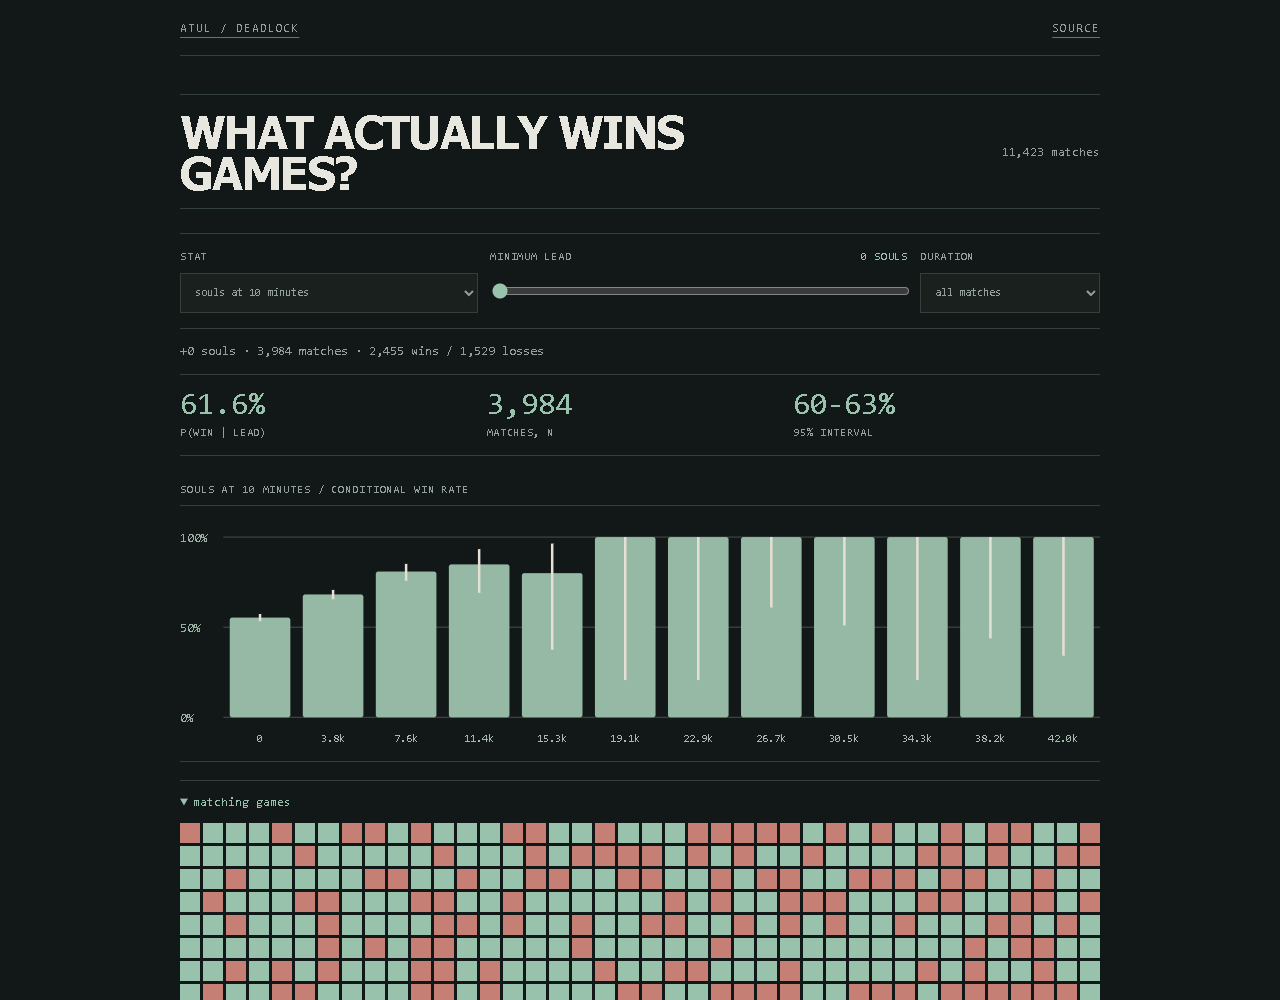
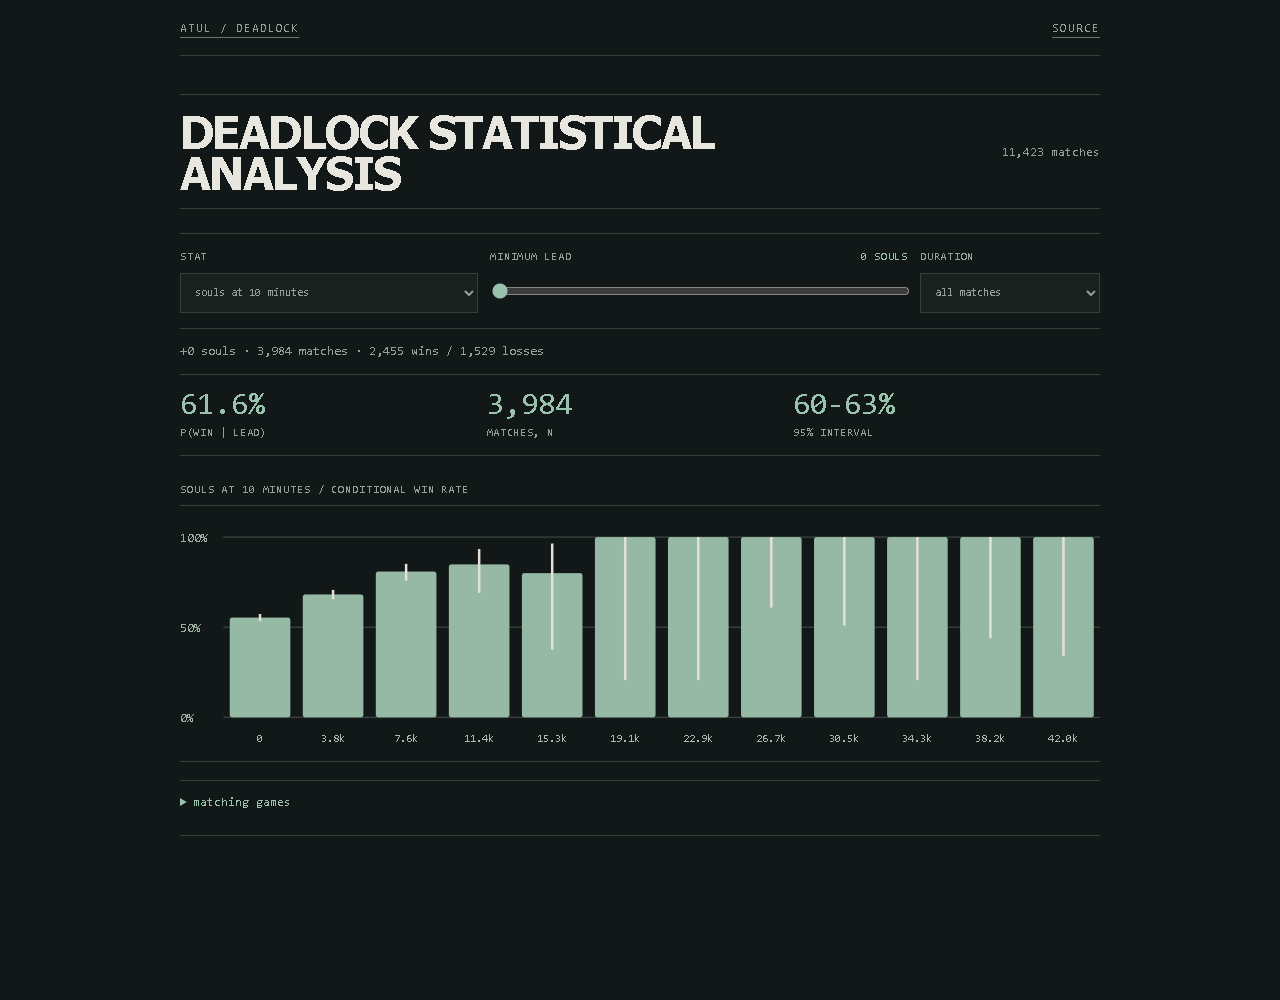
Clarify analysis title and compact preview

Changed region(s): [[0.125, 0.806, 0.875, 1.0], [0.125, 0.093, 0.5625, 0.217]]

diff --git a/examples/portfolio/index.html b/examples/portfolio/index.html
@@ -1,7 +1,7 @@
-<!doctype html><html lang="en"><head><meta charset="utf-8"><meta name="viewport" content="width=device-width,initial-scale=1"><title>deadlock / conditional win rate</title><link rel="icon" href="favicon.svg" type="image/svg+xml"><link rel="stylesheet" href="style.css"><link rel="stylesheet" href="identity.css"></head><body>
+<!doctype html><html lang="en"><head><meta charset="utf-8"><meta name="viewport" content="width=device-width,initial-scale=1"><title>deadlock / statistical analysis</title><link rel="icon" href="favicon.svg" type="image/svg+xml"><link rel="stylesheet" href="style.css"><link rel="stylesheet" href="identity.css"></head><body>
 <header><a href="https://lolstar123.github.io/just-a-little-further/">atul / deadlock</a><a href="https://github.com/LolStar123/deadlock-match-analysis">source</a></header>
 <main>
-<section class="hero"><h1>what actually wins games?</h1><span id="scope">loading matches…</span></section>
+<section class="hero"><h1>deadlock statistical analysis</h1><span id="scope">loading matches…</span></section>
 <section class="controls"><label>stat<select id="metric"></select></label><label>minimum lead <strong id="lead-label"></strong><input id="threshold" type="range" min="0" max="20000" step="1000" value="0"></label><label>duration<select id="duration"><option value="0,120">all matches</option><option value="0,25">under 25m</option><option value="25,40">25–40m</option><option value="40,120">40m+</option></select></label></section>
 <p id="answer" class="answer" aria-live="polite"></p><p id="context" hidden></p>
 <section class="result"><div><strong id="win-rate">…</strong><span>P(win | lead)</span></div><div><strong id="sample">…</strong><span>matches, n</span></div><div><strong id="interval">…</strong><span>95% interval</span></div></section>

diff --git a/tools/browser_audit.py b/tools/browser_audit.py
@@ -28,6 +28,7 @@ try:
         assert 'match ' in page.locator('#match-detail').inner_text()
         with page.expect_download() as dl:page.locator('#download').click()
         assert dl.value.suggested_filename=='deadlock-cohort.csv'
+        page.locator('details summary').click()
         page.locator('#metric').select_option('nw_600')
         page.evaluate('window.scrollTo(0,0)')
         page.screenshot(path=str(ROOT/'examples/portfolio/preview.png'))
